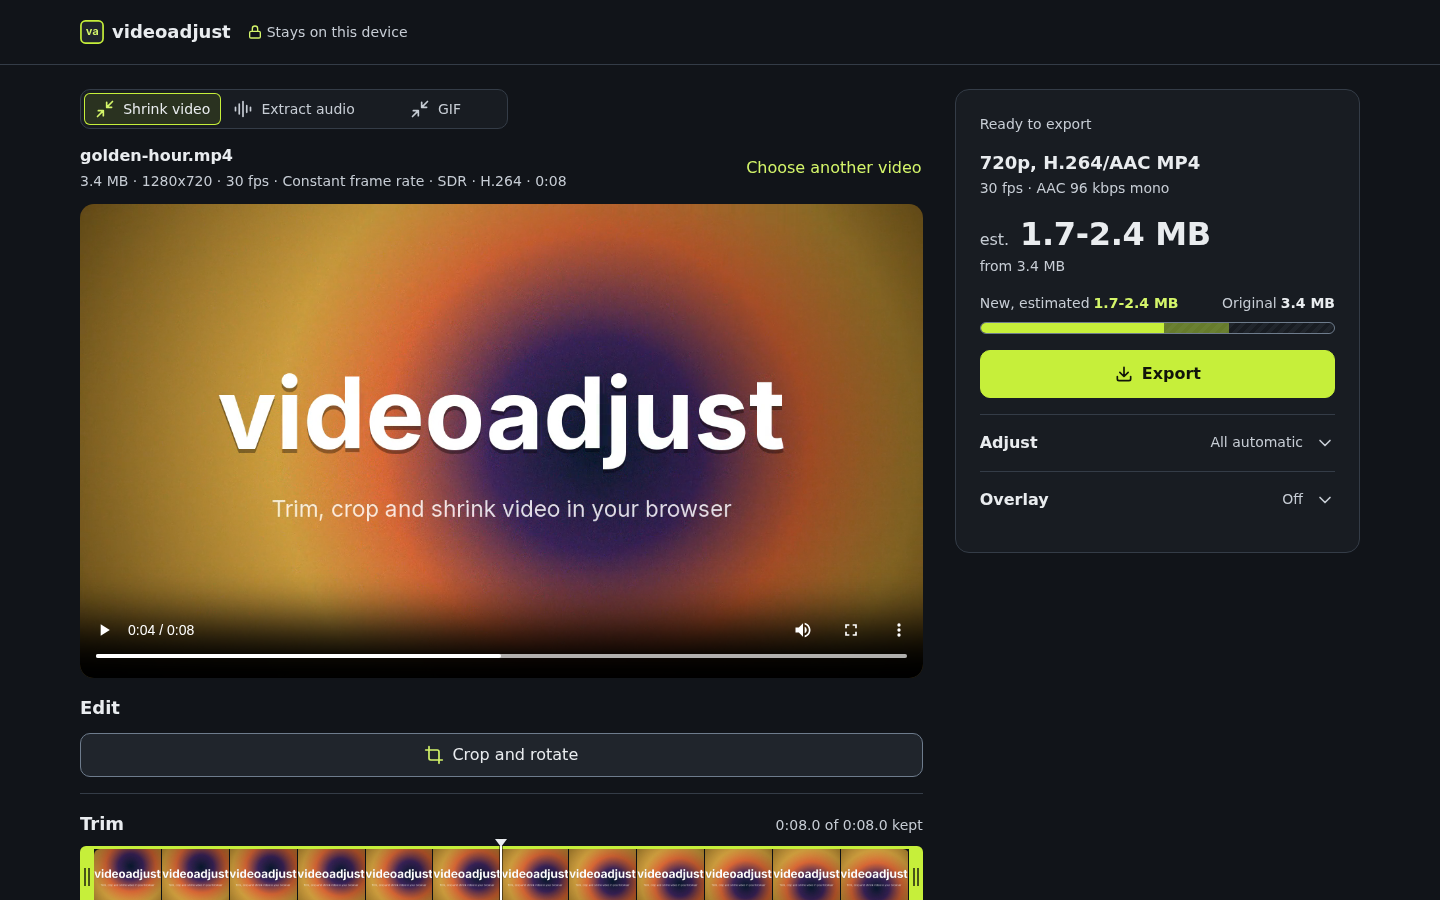
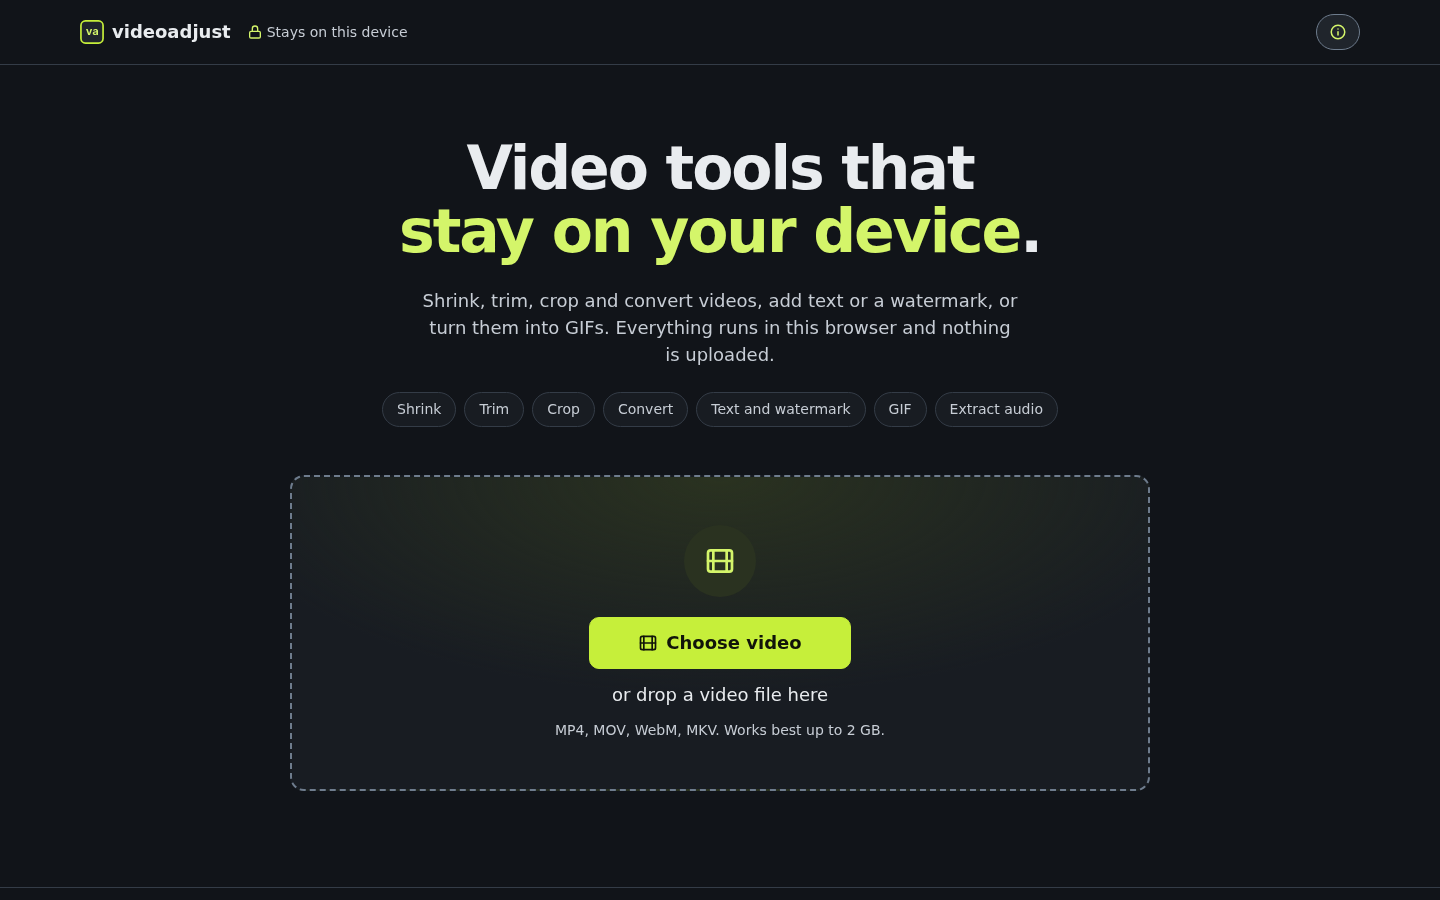
feat(drop): centre a larger desktop drop zone and move About to the header
On desktop the drop screen is one centred column: a bigger balanced
headline, a row of tool tags and a large dashed drop target. Phone and
tablet keep the compact picker. About is now an icon-only button at the
top right of the header. The README screenshot shows the new drop screen.

diff --git a/src/styles/app.css b/src/styles/app.css
@@ -156,7 +156,7 @@ footer {
 .foot-in {
   display: flex;
   flex-wrap: wrap;
-  justify-content: space-between;
+  justify-content: flex-end;
   align-items: center;
   gap: var(--s-2) var(--s-5);
   padding-block: var(--s-5);
@@ -185,21 +185,23 @@ footer a {
   color: var(--text-3);
   font-variant-numeric: tabular-nums;
 }
-/* A compact .btn; the ::before keeps a 44px hit area around the 36px pill. */
-footer .about-link {
+/* An icon-only .btn; the ::before keeps a 44px hit area around the 36px circle. */
+.top .about-link {
+  flex: none;
+  width: 36px;
   min-height: 36px;
-  padding: 0 var(--s-4) 0 var(--s-3);
+  padding: 0;
+  justify-content: center;
   border-radius: 999px;
-  font-size: var(--fs-14);
 }
-footer .about-link::before {
+.top .about-link::before {
   content: '';
   position: absolute;
-  inset: -4px 0;
+  inset: -4px;
 }
-footer .about-link svg.i {
-  width: 16px;
-  height: 16px;
+.top .about-link svg.i {
+  width: 18px;
+  height: 18px;
   color: var(--accent-text);
 }
 .about-dialog {
@@ -640,6 +642,11 @@ input[type='checkbox']:disabled {
 .dropzone .formats {
   font-size: var(--fs-14);
   color: var(--text-2);
+}
+/* Desktop-only decoration; narrower screens keep the compact picker. */
+.tool-tags,
+.drop-art {
+  display: none;
 }
 
 /* Workspace */
@@ -2272,14 +2279,83 @@ table.stats {
   .deliver .btn-primary {
     min-height: 48px;
   }
+  /* Drop screen: one centred column, headline above a large drop target. */
+  .drop-grid {
+    grid-template-columns: minmax(0, 860px);
+    justify-content: center;
+    row-gap: var(--s-7);
+    padding-block: var(--s-7);
+  }
   .hero {
-    grid-column: 1 / span 6;
+    text-align: center;
+  }
+  .hero h1 {
+    max-width: 20ch;
+    margin-inline: auto;
+    font-size: var(--fs-60);
+    line-height: 1.05;
+    letter-spacing: -0.035em;
+    text-wrap: balance;
+  }
+  .hero p {
+    max-width: 54ch;
+    margin-inline: auto;
+    margin-top: var(--s-5);
+    font-size: var(--fs-18);
+    text-wrap: pretty;
+  }
+  .tool-tags {
+    display: flex;
+    flex-wrap: wrap;
+    justify-content: center;
+    gap: var(--s-2);
+    margin: var(--s-5) 0 0;
+    padding: 0;
+    list-style: none;
+  }
+  .tool-tags li {
+    padding: 6px 14px;
+    border: 1px solid var(--line);
+    border-radius: 999px;
+    background: var(--surface);
+    color: var(--text-2);
+    font-size: var(--fs-14);
   }
   .dropzone {
-    grid-column: 7 / span 6;
+    grid-template-columns: minmax(0, 1fr);
+    grid-template-areas: 'art' 'pick' 'hint' 'formats';
+    justify-items: center;
+    align-content: center;
+    row-gap: var(--s-3);
+    min-height: 300px;
+    padding: var(--s-7);
+    text-align: center;
+    border: 2px dashed var(--ctl);
+    background:
+      radial-gradient(ellipse 60% 70% at 50% 0%, var(--accent-soft), transparent), var(--surface);
   }
-  .drop-grid {
-    padding-block: var(--s-8);
+  .drop-art {
+    grid-area: art;
+    display: grid;
+    place-items: center;
+    width: 72px;
+    height: 72px;
+    margin-bottom: var(--s-2);
+    border-radius: 50%;
+    background: var(--accent-soft);
+    color: var(--accent-text);
+  }
+  .drop-art svg.i {
+    width: 32px;
+    height: 32px;
+  }
+  .dropzone .btn-primary {
+    min-height: 52px;
+    padding-inline: var(--s-7);
+    font-size: var(--fs-18);
+  }
+  .dropzone .hint {
+    font-size: var(--fs-18);
   }
   .compare-stage {
     max-height: 70vh;

diff --git a/e2e/drop.spec.ts b/e2e/drop.spec.ts
@@ -106,7 +106,9 @@ test('a file at exactly 2 GB is read without a warning', async ({ page }) => {
   await expect(page.getByRole('alert').filter({ hasText: 'GB' })).toHaveCount(0);
 });
 
-test('footer links to the GitHub repo and opens About with the version', async ({ page }) => {
+test('footer links to the GitHub repo and the header opens About with the version', async ({
+  page,
+}) => {
   const { version } = JSON.parse(
     readFileSync(new URL('../package.json', import.meta.url), 'utf8'),
   ) as { version: string };
@@ -117,7 +119,7 @@ test('footer links to the GitHub repo and opens About with the version', async (
   await expect(page.locator('footer')).not.toContainText('Licences');
   await expect(page.locator('footer .footer-links')).toContainText(`v${version}`);
 
-  await page.getByRole('button', { name: 'About', exact: true }).click();
+  await page.locator('header').getByRole('button', { name: 'About', exact: true }).click();
   const about = page.getByRole('dialog', { name: 'About videoadjust' });
   await expect(about).toBeVisible();
   await expect(about).toContainText(`Version ${version}`);

diff --git a/src/ui/dropZone.ts b/src/ui/dropZone.ts
@@ -17,14 +17,19 @@ export function mountDropZone(
     <div class="hero">
       <h1>Video tools that <span class="hl">stay on your device</span>.</h1>
       <p>Shrink, trim, crop and convert videos, add text or a watermark, or turn them into GIFs. Everything runs in this browser and nothing is uploaded.</p>
+      <ul class="tool-tags" aria-label="Tools">
+        <li>Shrink</li><li>Trim</li><li>Crop</li><li>Convert</li><li>Text and watermark</li><li>GIF</li><li>Extract audio</li>
+      </ul>
     </div>
     <div class="dropzone">
+      <span class="drop-art" aria-hidden="true"></span>
       <button class="btn btn-primary" type="button"></button>
       <p class="hint">or drop a video file here</p>
       <p class="formats">MP4, MOV, WebM, MKV. Works best up to 2&nbsp;GB.</p>
     </div>`;
   const zone = grid.querySelector<HTMLElement>('.dropzone')!;
   zone.querySelector('button')!.append(icon('i-film'), 'Choose video');
+  zone.querySelector('.drop-art')!.append(icon('i-film'));
 
   const input = document.createElement('input');
   input.type = 'file';

diff --git a/index.html b/index.html
@@ -184,14 +184,20 @@
             device</span
           >
         </div>
+        <button
+          type="button"
+          class="btn about-link"
+          aria-haspopup="dialog"
+          aria-label="About"
+          title="About"
+        >
+          <svg class="i" aria-hidden="true"><use href="#i-info" /></svg>
+        </button>
       </div>
     </header>
     <main id="app" class="shell"></main>
     <footer>
       <div class="shell foot-in">
-        <button type="button" class="btn about-link" aria-haspopup="dialog">
-          <svg class="i" aria-hidden="true"><use href="#i-info" /></svg>About
-        </button>
         <span class="footer-links">
           <a
             class="repo-link"

diff --git a/src/styles/tokens.css b/src/styles/tokens.css
@@ -41,6 +41,7 @@
   --fs-24: 24px;
   --fs-32: 32px;
   --fs-40: 40px;
+  --fs-60: 60px; /* desktop drop-screen headline only */
 
   --s-1: 4px;
   --s-2: 8px;

diff --git a/README.md b/README.md
@@ -37,7 +37,7 @@ Compress, convert, trim, crop and resize videos, add text or a watermark, extrac
 - Privacy: No video is uploaded and nothing is sent anywhere. The page is static, has no analytics, web fonts or CDN assets, and makes no requests to other origins. Its CSP only allows `'self'`, `blob:` and workers. `scripts/check-no-remote.mjs` (`pnpm check:remote`, part of `pnpm build`) fails the build if any built file contains a URL outside a short, commented allowlist (spec links in bundled comments). It does not need `SharedArrayBuffer` or COOP/COEP headers.
 - Look: The app is dark only, with the same cool greys as rastertrace (`#111419` background, `#20252c` raised surfaces, `#e9ecef` text) and videoadjust's chartreuse accent (`#c6ef3a`). It uses system sans-serif fonts with tabular figures for times and sizes. Checkboxes draw as sliding switches. The logo is a lowercase va monogram in a chartreuse-framed rounded square, drawn as Inter Bold outlines, beside the lowercase name videoadjust, matching rastertrace's rt mark. The app stores nothing in `localStorage`; only the overlay fonts you add are kept, in IndexedDB.
 - Phones: Quick taps never trigger double-tap zoom, and every text field and menu uses at least 16px text so iOS does not zoom the page when one takes focus. Pinch zoom still works.
-- About: The footer's About button opens a dialog with the version, what the app does, offline use, credits, the libraries, a link to the third-party licences and a Buy Me a Coffee support link. The GitHub icon, app name and version in the footer link to the repo.
+- About: The info button at the top right of the header opens the About dialog with the version, what the app does, offline use, credits, the libraries, a link to the third-party licences and a Buy Me a Coffee support link. The GitHub icon, app name and version in the footer link to the repo.
 - Size guidance: Designed and tested for inputs up to 2 GB. Above 2 GB the app warns and lets you continue. Where there is no save picker (iOS Safari, Firefox) the output stays in memory until you download or share it, and a large estimate asks before it starts.
 - Offline: A service worker (`public/sw.js`, registered only in production builds) precaches every built file, including the lazy AAC and MP3 encoder chunks. Navigations are network-first, revalidated with the server (so the host's max-age cannot serve an old page), with the precached page used when offline or after 4 s; network responses never overwrite that page, keeping its HTML and assets from the same build. Hashed assets are cache-first. The previous version's cache is kept until the next update so an open tab can still load the AAC chunk. The build fills in the file list and a cache version at build time.
 
